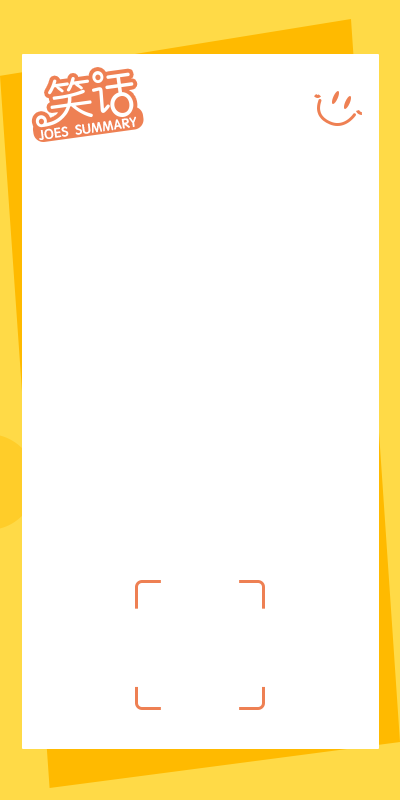
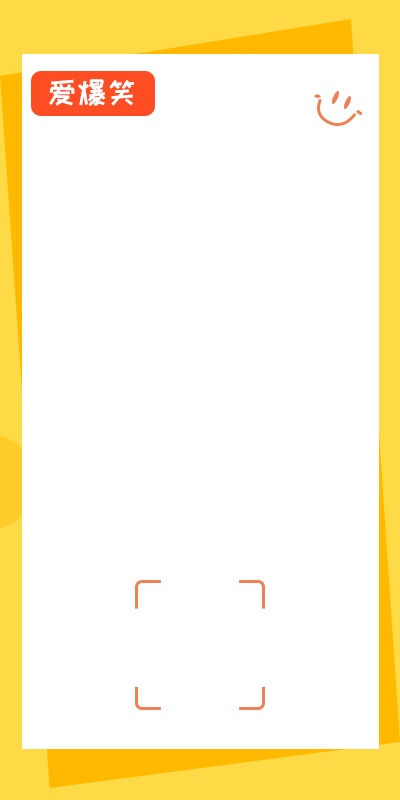
1636

Changed region(s): [[0.06, 0.0625, 0.39, 0.1875]]

diff --git a/pages/duanzi_detail/duanzi_detail.js b/pages/duanzi_detail/duanzi_detail.js
@@ -232,7 +232,8 @@ Page({
                 ctx.stroke() //绘制已定义的路径
                 ctx.setFontSize(16);
                 ctx.fillStyle = "#ed5935";
-                ctx.fillText('识别小程序码,开启更多爆笑段子', 90, 550)
+                ctx.fillText('识别二维码微信搜索“爱爆笑”,开启爆笑模式', 50, 550)
+
                 
                 ctx.drawImage(that.data.tempFilePath, 140, 585, 120, 120);
 
